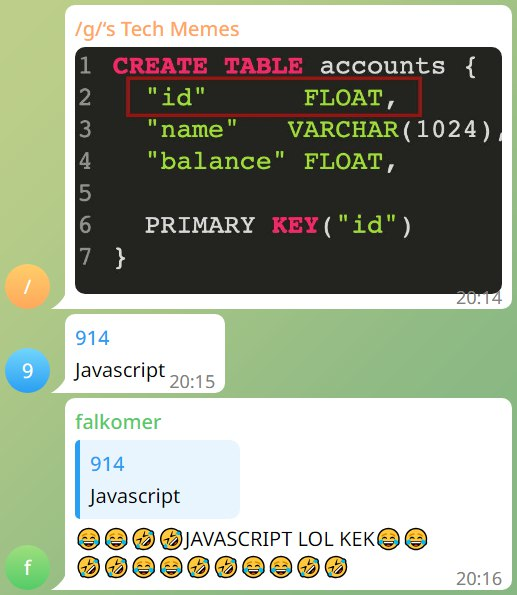
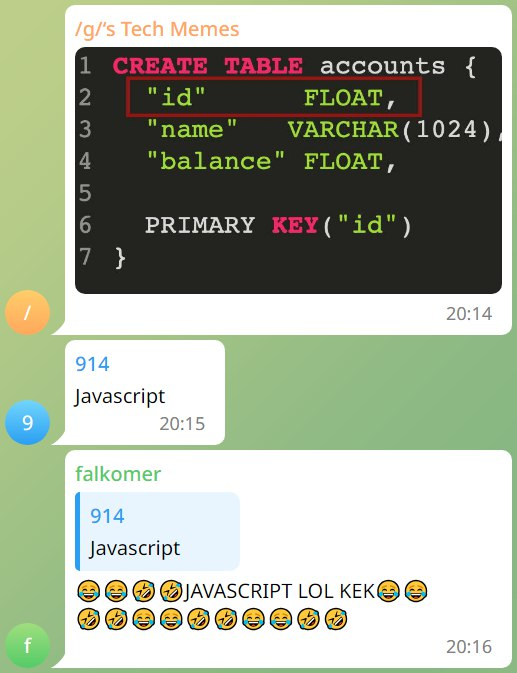
fix time rendering

diff --git a/files/style.css b/files/style.css
@@ -54,7 +54,6 @@ p {
 .message {
     display: flex;
     padding: 10px;
-    position: relative;
     border-radius: 10px;
     margin-bottom: 5px;
     min-width: 80px;
@@ -91,9 +90,7 @@ p {
 }
 
 .time {
-    position: absolute;
-    bottom: 0;
-    right: 10px;
+    margin-right: 10px;
     text-align: right;
     font-size: 18px;
     color: gray;

diff --git a/bot/message.py b/bot/message.py
@@ -13,9 +13,8 @@ from bot.utils import full_path
 MESSAGE_HTML = """
 <div class="message">
     <div class="content">
-        $header$reply$additional<p>$content</p>
+        $header$reply$additional<p>$content</p><p class="time">$time</p>
     </div>
-    <div class="time">$time</div>
 </div>"""
 REPLY_HTML = """
 <div class="reply" style="border-left: 5px solid $color; background: rgba($r, $g, $b, 0.1);">
